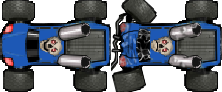
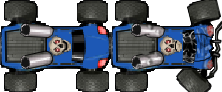
Added truck spawn with Z

diff --git a/Visual Studio/TruckGame/TruckGame/Truck.cs b/Visual Studio/TruckGame/TruckGame/Truck.cs
@@ -3,6 +3,7 @@ using System.Collections.Generic;
 using System.Linq;
 using System.Text;
 using System.Threading.Tasks;
+using System.Diagnostics;
 using Microsoft.Xna.Framework;
 using Microsoft.Xna.Framework.Graphics;
 
@@ -12,24 +13,40 @@ namespace TruckGame
     {
         public bool isInvincible;
 
+        public static Texture2D truckTexture;
+
         public Animation truckAnimation;
 
         public bool active;
         public int health;
 
+        public bool justSpawned = true;
+
         public Game1 activeGame;
 
-        public float truckMoveSpeed = 150.0f;
-        public float truckTurnSpeed = 1.0f;
+        public float truckMoveSpeed = 200.0f;
 
+        public Vector2 startPosition;
+        public Vector2 targetPosition;
 
-
-        public Truck(Game1 game, Animation animation, Vector2 position)
+        public Truck(Game1 game, Vector2 position)
         {
+            // Debug.WriteLine(truckTexture == null);
+            if (truckTexture == null)
+            {
+                truckTexture = game.Content.Load<Texture2D>("truck_sheet");
+            }
+
+            truckAnimation = new Animation();
+            truckAnimation.Initialize(truckTexture, Vector2.Zero, 111, 92, 1, 1000, Color.White, 1f, true);
+
+            this.Position = position;
+            active = true;
+            health = 100;
             activeGame = game;
-            truckAnimation = animation;
-            this.position = position;
             tag = "Truck";
+            
+            
         }
 
         public Rectangle BoundingBox
@@ -51,12 +68,32 @@ namespace TruckGame
 
         public override void Draw(SpriteBatch spriteBatch)
         {
-            base.Draw(spriteBatch);
+            truckAnimation.Draw(spriteBatch);
         }
 
         public override void Update(GameTime gameTime)
         {
-            base.Update(gameTime);
+            float deltaTime = (float)gameTime.ElapsedGameTime.TotalSeconds;
+
+            Vector2 normalized = Vector2.Normalize(targetPosition - startPosition);
+            normalized *= truckMoveSpeed;
+            this.X += normalized.X * deltaTime;
+            this.Y += normalized.Y * deltaTime;
+
+            if (justSpawned == true)
+            {
+                if (this.X > 0 && this.X < activeGame.GraphicsDevice.Viewport.Width && this.Y > 0 && this.Y < activeGame.GraphicsDevice.Viewport.Height)
+                {
+                    // Truck is in bounds
+                    isInvincible = false;
+                }
+            }
+
+            // Debug.WriteLine("Animation: " + truckAnimation.Position.X + ", " + truckAnimation.Position.Y);
+
+            // Debug.WriteLine(this.Position.X + ", " + this.Position.Y);
+
+            truckAnimation.Update(gameTime);
         }
 
         public int Width
@@ -92,5 +129,7 @@ namespace TruckGame
             get { return truckAnimation.angle; }
             set { truckAnimation.angle = value; }
         }
+
+        
     }
 }

diff --git a/Visual Studio/TruckGame/TruckGame/Player.cs b/Visual Studio/TruckGame/TruckGame/Player.cs
@@ -46,6 +46,8 @@ namespace TruckGame
             this.X += activeGame.currentGamePadState.ThumbSticks.Left.X * playerMoveSpeed * deltaTime;
             this.Y -= activeGame.currentGamePadState.ThumbSticks.Left.Y * playerMoveSpeed * deltaTime;
 
+            
+
             bool left = false, right = false;
 
             if (activeGame.currentKeyboardState.IsKeyDown(Keys.Left) || activeGame.currentKeyboardState.IsKeyDown(Keys.A) || activeGame.currentGamePadState.DPad.Left == ButtonState.Pressed)
@@ -53,7 +55,7 @@ namespace TruckGame
                 this.X -= playerMoveSpeed * deltaTime;
                 Rotation = (float) Math.PI;
                 left = true;
-                Debug.WriteLine("Left");
+                //Debug.WriteLine("Left");
             }
 
             if (activeGame.currentKeyboardState.IsKeyDown(Keys.Right) || activeGame.currentKeyboardState.IsKeyDown(Keys.D) || activeGame.currentGamePadState.DPad.Right == ButtonState.Pressed)
@@ -61,7 +63,7 @@ namespace TruckGame
                 this.X += playerMoveSpeed * deltaTime;
                 Rotation = 0f;
                 right = true;
-                Debug.WriteLine("Right");
+                //Debug.WriteLine("Right");
             }
 
             if (activeGame.currentKeyboardState.IsKeyDown(Keys.Up) || activeGame.currentKeyboardState.IsKeyDown(Keys.W) || activeGame.currentGamePadState.DPad.Up == ButtonState.Pressed)
@@ -70,7 +72,7 @@ namespace TruckGame
                 Rotation = (float)Math.PI * 3 / 2;
                 if (left) Rotation = (float)Math.PI * 5 / 4;
                 else if (right) Rotation = (float)Math.PI * 7 / 4;
-                Debug.WriteLine("Up");
+                //Debug.WriteLine("Up");
             }
 
             if (activeGame.currentKeyboardState.IsKeyDown(Keys.Down) || activeGame.currentKeyboardState.IsKeyDown(Keys.S) || activeGame.currentGamePadState.DPad.Down == ButtonState.Pressed)
@@ -79,7 +81,7 @@ namespace TruckGame
                 Rotation = (float) Math.PI / 2;
                 if (left) Rotation = (float) Math.PI * 3/4;
                 else if (right) Rotation = (float)Math.PI * 1 / 4;
-                Debug.WriteLine("Down");
+                //Debug.WriteLine("Down");
             }
 
             if (activeGame.currentKeyboardState.IsKeyDown(Keys.R))
@@ -98,7 +100,7 @@ namespace TruckGame
                 this.Rotation += playerTurnSpeed * deltaTime;
             }
             */
-            Debug.WriteLine(this.X + ", " + this.Y);
+            // Debug.WriteLine(this.X + ", " + this.Y);
 
             this.X = MathHelper.Clamp(this.X, playerAnimation.FrameWidth, activeGame.GraphicsDevice.Viewport.Width);
             this.Y = MathHelper.Clamp(this.Y, playerAnimation.FrameHeight, activeGame.GraphicsDevice.Viewport.Height);

diff --git a/Visual Studio/TruckGame/TruckGame/Game1.cs b/Visual Studio/TruckGame/TruckGame/Game1.cs
@@ -8,6 +8,7 @@ using System.Collections.Generic;
 using System.Linq;
 using System.Text;
 using System.Threading.Tasks;
+using System.Diagnostics;
 
 namespace TruckGame
 {
@@ -42,8 +43,8 @@ namespace TruckGame
         public Game1()
         {
             graphics = new GraphicsDeviceManager(this);
-            graphics.PreferredBackBufferWidth = 1920;
-            graphics.PreferredBackBufferHeight = 1080;
+            graphics.PreferredBackBufferWidth = 1024;
+            graphics.PreferredBackBufferHeight = 768;
             Content.RootDirectory = "Content";
         }
 
@@ -124,6 +125,28 @@ namespace TruckGame
             }
 
             CheckCollisions();
+
+            if (currentKeyboardState.IsKeyDown(Keys.Z) && previousKeyboardState.IsKeyUp(Keys.Z))
+            {
+                Vector2 center = new Vector2(GraphicsDevice.Viewport.Width / 2, GraphicsDevice.Viewport.Height / 2);
+                Vector2 topLeft = new Vector2(0f, 0f);
+                Vector2 distance = center - topLeft;
+                
+                distance *= 3 / 2;
+                Random rand = new Random();
+                Matrix rotMatrix = Matrix.CreateRotationZ((float) rand.Next(360));
+                distance = Vector2.Transform(distance, rotMatrix);
+                Vector2 truckSpawnPoint = center - distance;
+
+                Truck truck = new Truck(this, truckSpawnPoint);
+                truck.startPosition = truckSpawnPoint;
+                truck.targetPosition = player.Position;
+                truck.Rotation = (float) (3 * Math.PI / 2 + VectorToAngle(truck.startPosition - truck.targetPosition));
+                Debug.WriteLine(truck.Rotation);
+                objectsInScene.Add(truck);
+                //Debug.WriteLine(objectsInScene.Count);
+                //Debug.WriteLine("Spawn Point: " + truckSpawnPoint.X + ", " + truckSpawnPoint.Y + "... " + truck.targetPosition.X + " ," + truck.targetPosition.Y);
+            }
 
             //UpdatePlayer(gameTime);
 
@@ -213,6 +236,11 @@ namespace TruckGame
             timer.playerTime = 0f;
             player.Position = new Vector2(GraphicsDevice.Viewport.TitleSafeArea.X + GraphicsDevice.Viewport.TitleSafeArea.Width / 2, GraphicsDevice.Viewport.TitleSafeArea.Y + GraphicsDevice.Viewport.TitleSafeArea.Height / 2);
             // Figure out how to reset game here
+        }
+
+        public float VectorToAngle(Vector2 vector)
+        {
+            return (float)Math.Atan2(vector.X, -vector.Y);
         }
     }
 }
